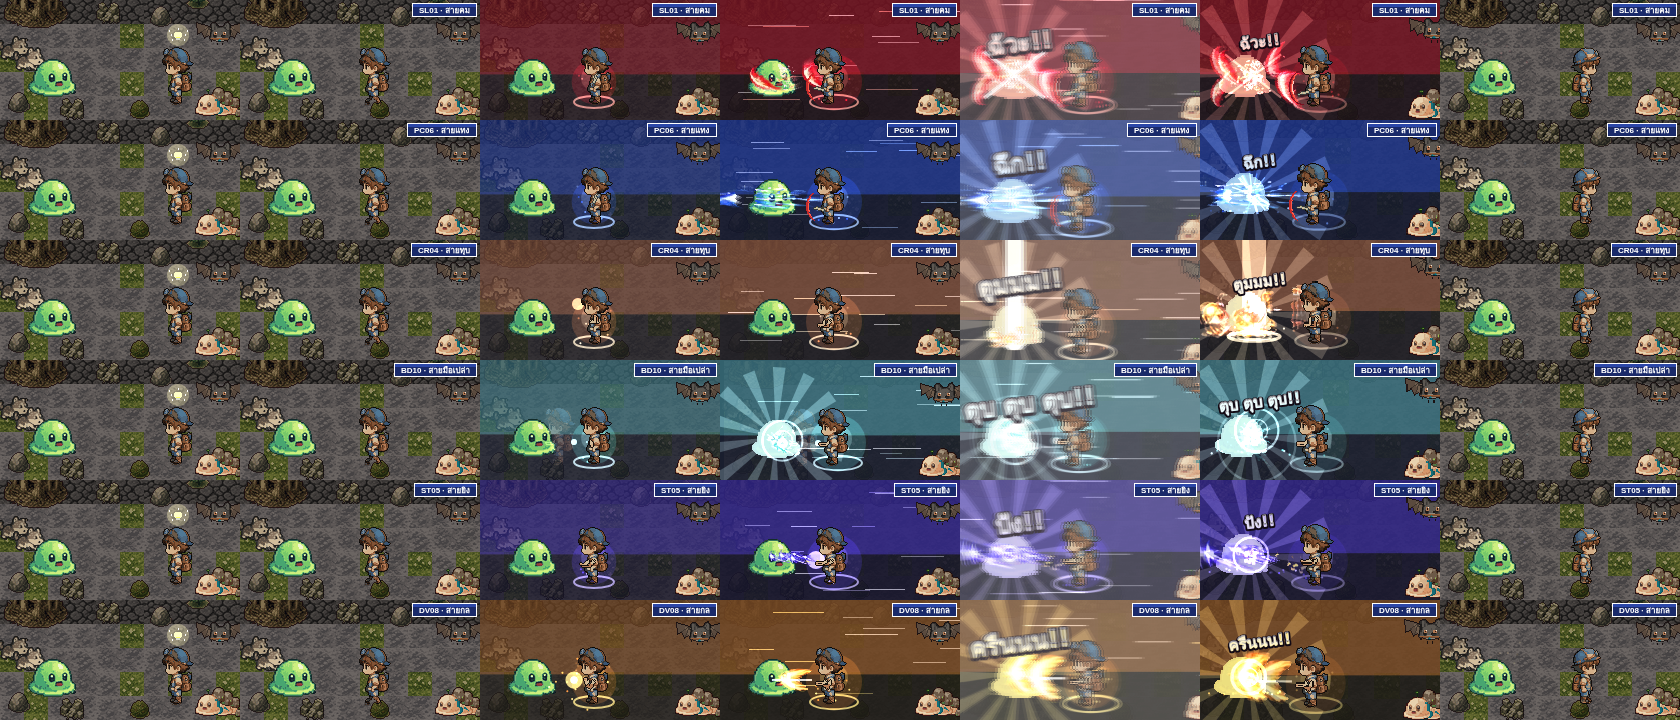
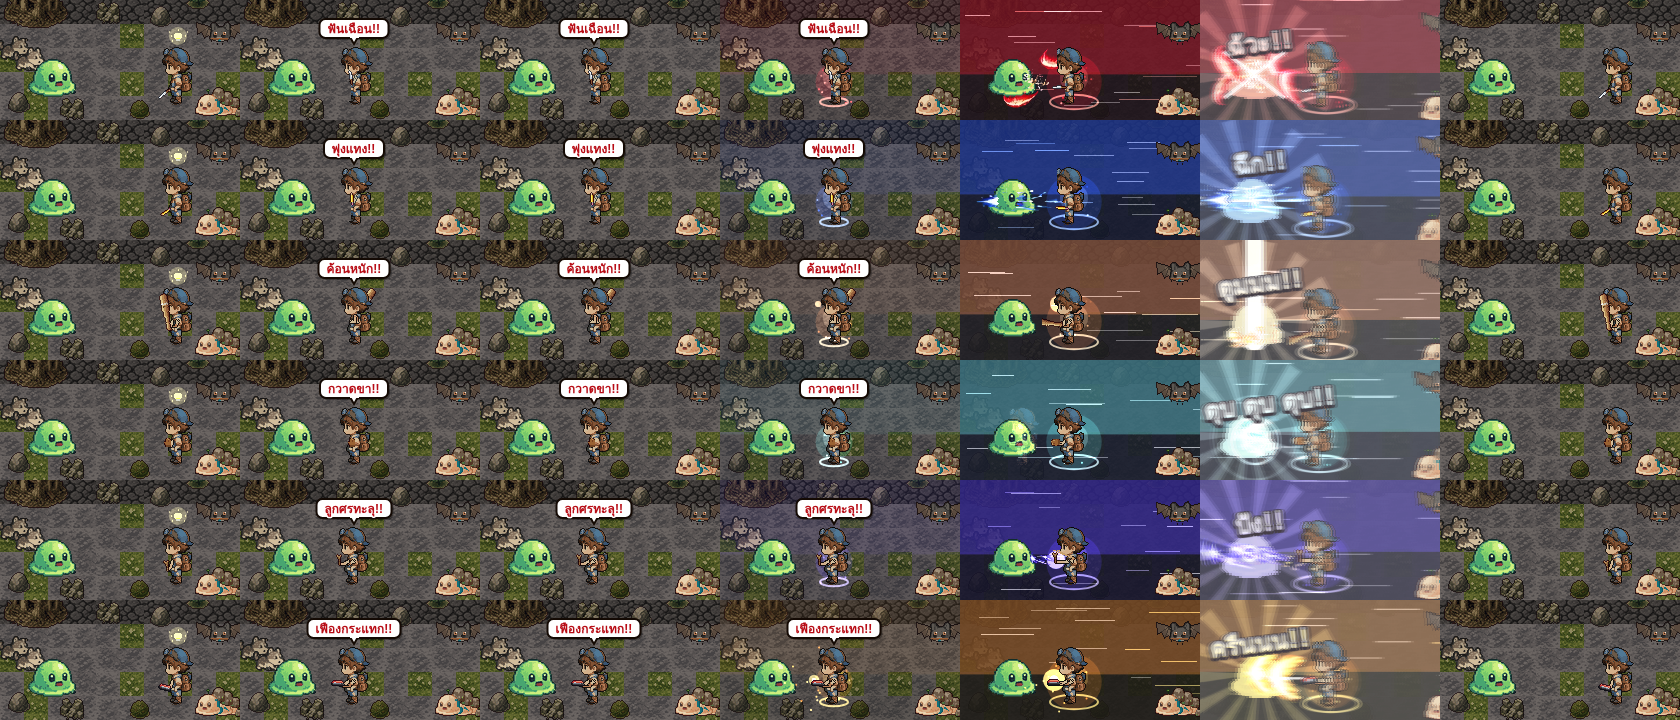
REBORNER: RS3 samples get school weapons, clearer name balloon, harder SFX and battle BGM
Drop speech voice and the top-right name box; balloon is bold 12px with heavy outline.
Rion holds the weapon of the skill's school. SFX rebuilt around sub-bass, driven
transients, reverb and a compressor. Adds an original SNES-style battle loop.

Claude-Session: https://claude.ai/code/session_01GQscemcyhAULQ41Vq3Zx3F

diff --git a/reborner/tools/web/anim_test.tpl.html b/reborner/tools/web/anim_test.tpl.html
@@ -177,7 +177,7 @@ footer code{font-family:ui-monospace,Menlo,monospace;font-size:11px}
 		<section class="box" id="paneSksheet" hidden>
 			<p class="muted wnote">ตัดจากชีตสกิลของ kwan ทีละช่อง (มีจริง 172 ช่อง แม้หัวชีตเขียน 173) · ตัวเอกในชีตถูกลบออก ใช้ Rion ตัวจริงของเกมแทน · หันซ้ายแบบจอสู้ ·
 				ยืน → ง้าง → ปล่อย → กระทบ → คืนท่า · มุมซ้ายบน = ช่องต้นฉบับ · ร่าง ยังไม่เข้าเกม · ชื่อท่ายังไม่ได้ใส่ (ในชีตเป็นภาพตัวหนังสือ)</p>
-			<p><button class="btn" id="btnSound" aria-pressed="false">🔇 เสียงปิด — กดเพื่อเปิดเสียงประกอบ (ตัวอย่าง VFX)</button></p>
+			<p class="seg"><button class="btn" id="btnSound" aria-pressed="false">🔇 เสียงประกอบ</button><button class="btn" id="btnMusic" aria-pressed="false">🎵 เพลงต่อสู้</button></p>
 			<div class="clips" id="skGroups"></div>
 		</section>
 
@@ -343,20 +343,24 @@ const vHash = str => { let h = 2166136261; for (const ch of str) h = Math.imul(h
 const vRng = seed => { let s = (seed >>> 0) || 1; return () => (s = (Math.imul(s, 1664525) + 1013904223) >>> 0) / 4294967296; };
 const lerp = (a, b, t) => a + (b - a) * Math.max(0, Math.min(1, t));
 // แนว RS3 (Romancing SaGa 3 · kwan 5 ต.ค. "ทำแนว RS3 แต่เพิ่มความอลังการ"): ฉากปูไทล์ 240x120 แบบโหมด SaGa · ทีมเรียงทแยงขวา · มอนซ้าย
-// เฟรม: หลอดไฟประกาย 0–5 · กล่องชื่อท่า 4– · วิ่งเข้า 6–11 · ตะโกนชื่อท่า 12–27 (บอลลูน + เสียงพูด) · ท่า (VFX เฟรม 0–29) 28–57 · วิ่งกลับ 58–63 · ยืน 64–69
+// เฟรม: หลอดไฟประกาย 0–5 · วิ่งเข้า 6–11 · ประกาศชื่อท่า 12–27 (บอลลูนชื่อท่า) · ท่า (VFX เฟรม 0–29) 28–57 · วิ่งกลับ 58–63 · ยืน 64–69
 const RS3 = { N: 70, RUN: 6, SHOUT: 12, ATK: 28, BACK: 58, IDLE: 64, HOME: [146, 42], FRONT_DX: 30,
 	TARGET: { x: 52, foot: 98, key: 'mon/M01' }, BACKFOE: { x: 22, foot: 72, key: 'mon/M15' },
 	PARTY: [{ key: 'mon/COMP-M06', x: 220, y: 60 }, { key: 'mon/COMP-M03', x: 218, y: 118 }] };
 function rs3Rion(it, f) {   // ตำแหน่งมุมซ้ายบน + ภาพของ Rion ที่เฟรม f
 	const front = RS3.TARGET.x + RS3.FRONT_DX, [hx, hy] = RS3.HOME;
-	if (f < RS3.RUN) return { x: hx, y: hy, key: 'rion/west' };
+	if (f < RS3.RUN) return { x: hx, y: hy, key: heldPose(it, 0) };
 	if (f < RS3.SHOUT) { const p = (f - RS3.RUN + 1) / (RS3.SHOUT - RS3.RUN); return { x: Math.round(lerp(hx, front, p)), y: hy, key: `rion/west_w${f % 4}` }; }
-	if (f < RS3.ATK) return { x: front, y: hy - ((f >> 2) % 2), key: 'rion/' + SKS.poses[it.family][1] };   // ตะโกน: ท่าง้าง ตัวกระตุกขึ้นลงทีละ 1px
-	if (f < RS3.BACK) return { x: front, y: hy, key: 'rion/' + SKS.poses[it.family][VFX.POSE[f - RS3.ATK]] };
+	if (f < RS3.ATK) return { x: front, y: hy - ((f >> 2) % 2), key: heldPose(it, 1) };   // ประกาศชื่อท่า: ท่าง้าง ตัวกระตุกขึ้นลงทีละ 1px
+	if (f < RS3.BACK) return { x: front, y: hy, key: heldPose(it, VFX.POSE[f - RS3.ATK]) };
 	if (f < RS3.IDLE) { const p = (f - RS3.BACK + 1) / (RS3.IDLE - RS3.BACK); return { x: Math.round(lerp(front, hx, p)), y: hy, key: `rion/east_w${f % 4}` }; }
-	return { x: hx, y: hy, key: 'rion/west' };
+	return { x: hx, y: hy, key: heldPose(it, 0) };
 }
-const VFX_POSE_KEYS = it => VFX.POSE.map(p => 'rion/' + SKS.poses[it.family][p]);
+// อาวุธที่ถือตรงกับสายของท่า (kwan 5 ต.ค.): ภาพ Rion ถืออาวุธร่าง weapons_held/<สาย>-<ระดับ>_<0–4> (ยืน · ง้าง · ฟาด · ตาม · คืน = ช่องเดียวกับ VFX.POSE)
+// ระดับอาวุธ = ตำแหน่งของท่าในสายของมัน (ต้นสาย = ระดับ 1 · ท้ายสาย = ระดับ 5) — เป็นการจับคู่เพื่อดูภาพ ไม่ใช่กฎเกม
+function heldWeapon(it) { const fam = SKS.items.filter(x => x.family === it.family), i = Math.max(0, fam.indexOf(it)); return `${it.family}-${Math.min(5, 1 + Math.floor(i * 5 / fam.length))}`; }
+function heldPose(it, p) { const k = `held/${heldWeapon(it)}_${p}`; return DATA.sprites[k] ? k : 'rion/' + SKS.poses[it.family][p]; }
+const VFX_POSE_KEYS = it => VFX.POSE.map(p => heldPose(it, p));
 // สกิลจากชีต 173 ท่า (tools/sprites/skill_sheet_cut.py) — timeline/poses/ตำแหน่งมาจาก index.json ชุดเดียวกับสคริปต์
 const SKS = DATA.skill_sheet, SK_FAM = { SL: 'SL ฟัน', PC: 'PC แทง', CR: 'CR ทุบ', BD: 'BD ร่างกาย', ST: 'ST ยิง', DV: 'DV สายกล' };
 for (const it of ((SKS || {}).items || [])) {
@@ -514,7 +518,7 @@ function vfxScene(c, L) {   // L = ผังฉาก: size · hand · rion (ม
 
 function vfxView(c) {   // แบบเวทีทดสอบ: Rion ขวา เป้า M01 ซ้าย ช่องต้นฉบับมุมซ้ายบน
 	const f = S.frame;
-	vfxScene(c, { f, size: SKS.stage, hand: SKS.hand, rion: SKS.rion_at, pose: 'rion/' + SKS.poses[c.skill.family][VFX.POSE[f]], target: VFX.TARGET, bg: drawBg, cell: true });
+	vfxScene(c, { f, size: SKS.stage, hand: SKS.hand, rion: SKS.rion_at, pose: heldPose(c.skill, VFX.POSE[f]), target: VFX.TARGET, bg: drawBg, cell: true });
 }
 function rs3Bulb(x, y, f) {   // หลอดไฟประกาย (พิกเซล) เหนือหัว — แบบเดียวกับ bulb() ของโหมด SaGa
 	ctx.save(); ctx.fillStyle = '#fff6a0'; ctx.fillRect(x - 3, y - 8, 6, 6); ctx.fillRect(x - 4, y - 7, 8, 4); ctx.fillStyle = '#ffd040'; ctx.fillRect(x - 2, y - 3, 4, 1);
@@ -522,29 +526,17 @@ function rs3Bulb(x, y, f) {   // หลอดไฟประกาย (พิก
 	ctx.fillStyle = '#fff6a0'; for (const [dx, dy] of [[-7, -6], [7, -6], [0, -12], [-6, -1], [6, -1], [-9, -10], [9, -10]]) ctx.fillRect(x + dx, y + dy, 1, 2);
 	vfxDot(x, y - 5, 9 + (f % 3), '#fff6a0', 0.25); ctx.restore();
 }
-function rs3NameBox(text, alpha, W0) {   // กล่องชื่อท่ามุมขวาบน (กรอบน้ำเงินขอบขาวแบบ SNES)
-	ctx.save(); ctx.globalAlpha = alpha; ctx.font = '700 8px Sarabun, sans-serif'; const w = Math.ceil(ctx.measureText(text).width) + 12, x = W0 - w - 4, y = 4;
-	ctx.fillStyle = '#ffffff'; ctx.fillRect(x - 1, y - 1, w + 2, 14); ctx.fillStyle = '#1a2a6a'; ctx.fillRect(x, y, w, 12);
-	ctx.fillStyle = '#2c47a8'; ctx.fillRect(x, y, w, 3); ctx.fillStyle = '#ffffff'; ctx.textBaseline = 'middle'; ctx.fillText(text, x + 6, y + 6.5); ctx.restore();
-}
-function rs3Bubble(text, x, y, d, alpha) {   // บอลลูนคำพูด (แบบ bubble() ของโหมด SaGa) เด้งตอนเริ่ม
-	if (alpha <= 0) return; ctx.save(); ctx.globalAlpha = Math.min(1, alpha); ctx.font = '900 9px Sarabun, sans-serif';
-	const sc = d < 2 ? 1.35 - d * 0.17 : 1, w = Math.ceil(ctx.measureText(text).width) + 12, bx = Math.max(2, Math.min(240 - w * sc - 2, x - w * sc / 2)), by = y - 18;
+function rs3Bubble(text, x, y, d, alpha) {   // บอลลูนชื่อท่า: ตัวหนา 12px ขอบหนา เด้งตอนเริ่ม · ไม่ล้นจอ
+	if (alpha <= 0) return; ctx.save(); ctx.globalAlpha = Math.min(1, alpha); ctx.font = '900 12px Sarabun, "Noto Sans Thai", sans-serif';
+	const sc = d < 2 ? 1.3 - d * 0.15 : 1, w = Math.ceil(ctx.measureText(text).width) + 16, h = 19;
+	const bx = Math.max(2, Math.min(240 - w * sc - 2, x - w * sc / 2)), by = Math.max(2, y - h - 8), tail = Math.max(8, Math.min(w - 8, (x - bx) / sc));
 	ctx.translate(bx, by); ctx.scale(sc, sc);
-	ctx.fillStyle = '#fffaf0'; ctx.strokeStyle = '#2a1a0a'; ctx.lineWidth = 1.5; ctx.beginPath(); ctx.roundRect ? ctx.roundRect(0, 0, w, 14, 5) : ctx.rect(0, 0, w, 14); ctx.fill(); ctx.stroke();
-	ctx.beginPath(); ctx.moveTo(w / 2 - 3, 14); ctx.lineTo(w / 2 + 2, 19); ctx.lineTo(w / 2 + 3, 14); ctx.fill();
-	ctx.fillStyle = '#c0181e'; ctx.textBaseline = 'middle'; ctx.fillText(text, 6, 7.5); ctx.restore();
-}
-// เสียงตะโกนชื่อท่า: ใช้เสียงพูดภาษาไทยที่มีในเครื่องของคนดู (Web Speech) — ไม่มีไฟล์เสียงพากย์
-// เลือกเสียงผู้ชายไทยก่อน (Niwat/Pattara) แล้วดันเสียงสูงขึ้นให้เป็นเด็กชายวัยรุ่น · มีแค่เสียงผู้หญิง = กดเสียงต่ำลงเล็กน้อย · ไม่มีเสียงไทย = บอลลูนอย่างเดียว
-const VOICE_PITCH = { male: 1.5, other: 0.92 }, VOICE_RATE = 1.2;
-function thVoices() { return 'speechSynthesis' in window ? speechSynthesis.getVoices().filter(v => /^th/i.test(v.lang)) : []; }
-function rionVoice() { const vs = thVoices(), male = vs.find(v => /niwat|pattara|male|ชาย/i.test(v.name)); return { v: male || vs[0], male: !!male, n: vs.length }; }
-function rionShout(text) {
-	const { v, male } = rionVoice(); if (!v) return false;
-	const u = new SpeechSynthesisUtterance(text + '!'); u.lang = 'th-TH'; try { u.voice = v; } catch (e) {}   /* เลือกเสียงไม่ได้ = ใช้เสียงไทยค่าเริ่มของเครื่อง */
-	u.pitch = male ? VOICE_PITCH.male : VOICE_PITCH.other; u.rate = VOICE_RATE; u.volume = 1;
-	speechSynthesis.cancel(); speechSynthesis.speak(u); window.__shouts = (window.__shouts || 0) + 1; return true;
+	ctx.fillStyle = 'rgba(0,0,0,.35)'; ctx.beginPath(); ctx.roundRect ? ctx.roundRect(2, 2, w, h, 6) : ctx.rect(2, 2, w, h); ctx.fill();   // เงา
+	ctx.fillStyle = '#ffffff'; ctx.strokeStyle = '#140a04'; ctx.lineWidth = 2; ctx.beginPath(); ctx.roundRect ? ctx.roundRect(0, 0, w, h, 6) : ctx.rect(0, 0, w, h); ctx.fill(); ctx.stroke();
+	ctx.beginPath(); ctx.moveTo(tail - 4, h - 1); ctx.lineTo(tail, h + 6); ctx.lineTo(tail + 4, h - 1); ctx.fill(); ctx.stroke();
+	ctx.fillRect(tail - 4, h - 3, 9, 3);   // ลบเส้นขอบตรงโคนหาง
+	ctx.textBaseline = 'middle'; ctx.lineJoin = 'round'; ctx.lineWidth = 3; ctx.strokeStyle = '#ffffff'; ctx.strokeText(text, 8, h / 2 + 1);
+	ctx.fillStyle = '#b80d16'; ctx.fillText(text, 8, h / 2 + 1); ctx.restore();
 }
 function rs3View(c) {
 	const it = c.skill, f = S.frame, r = rs3Rion(it, f), col = it.colors || ['#ffffff'], lf = f - RS3.ATK;
@@ -556,49 +548,126 @@ function rs3View(c) {
 		party: () => { for (const m of RS3.PARTY) { const im = IMG[m.key]; if (im) { ctx.save(); ctx.translate(m.x + (im.width >> 1), m.y - im.height); ctx.scale(-1, 1); ctx.drawImage(im, 0, 0); ctx.restore(); } } },
 		over: () => {
 			if (f < RS3.RUN + 1) rs3Bulb(r.x + 32, r.y - 2 + (f % 2), f);
-			if (f >= RS3.SHOUT && f < RS3.ATK + 6) rs3Bubble((it.name_th || it.code) + '!!', r.x + 30, r.y + 2, f - RS3.SHOUT, f < RS3.ATK + 3 ? 1 : 1 - (f - RS3.ATK - 2) / 4);
-			if (f >= 4 && f < RS3.IDLE + 2) rs3NameBox((it.name_th || it.code) + ' · สาย' + it.school, f < 6 ? (f - 3) / 3 : f > RS3.IDLE - 1 ? Math.max(0, 1 - (f - RS3.IDLE + 1) / 3) : 1, 240);
+			if (f >= RS3.SHOUT && f < RS3.ATK + 8) rs3Bubble((it.name_th || it.code) + '!!', r.x + 32, r.y + 4, f - RS3.SHOUT, f < RS3.ATK + 4 ? 1 : 1 - (f - RS3.ATK - 3) / 5);
 		} });
 }
 function rs3Sound(c, f) {
 	if (!S.sound || !AU) return;
 	if (f === 1) AU_SFX.glim();
-	if (f === 4) AU_SFX.blip();
-	if (f === RS3.SHOUT) rionShout(c.skill.name_th || c.skill.code);
-	if ((f >= RS3.RUN && f < RS3.ATK) || (f >= RS3.BACK && f < RS3.IDLE)) { if (f % 2 === 0) AU_SFX.step(); }
+	if (f === RS3.SHOUT) AU_SFX.call();
+	if ((f >= RS3.RUN && f < RS3.SHOUT) || (f >= RS3.BACK && f < RS3.IDLE)) { if (f % 2 === 0) AU_SFX.step(); }
 	if (f >= RS3.ATK && f < RS3.BACK) vfxSound(c, f - RS3.ATK);
 }
-// ── เสียงประกอบ (Web Audio สังเคราะห์ในหน้า · ไม่มีไฟล์เสียง) ── เปิดด้วยปุ่ม "เสียง" (เบราว์เซอร์ให้เล่นได้หลังกดเท่านั้น)
+// ── เสียง (Web Audio สังเคราะห์ในหน้า · ไม่มีไฟล์เสียง) ── เบราว์เซอร์ให้เล่นได้หลังกดปุ่มเท่านั้น
+// สาย: เสียงเอฟเฟกต์ → sfx (+ ส่งเข้าห้องก้อง) · เพลง → music · ทั้งหมด → คอมเพรสเซอร์ → ลำโพง
 let AU = null;
-function auInit() { if (!AU) { try { const C = window.AudioContext || window.webkitAudioContext; const ac = new C(); const out = ac.createGain(); out.gain.value = 0.5; out.connect(ac.destination);
-	const nb = ac.createBuffer(1, ac.sampleRate, ac.sampleRate), d = nb.getChannelData(0); let s = 12345; for (let i = 0; i < d.length; i++) { s = (Math.imul(s, 1664525) + 1013904223) >>> 0; d[i] = s / 2147483648 - 1; }
-	AU = { ac, out, nb }; } catch (e) { AU = null; } } if (AU && AU.ac.state === 'suspended') AU.ac.resume(); return AU; }
+function auInit() {
+	if (!AU) { try {
+		const C = window.AudioContext || window.webkitAudioContext, ac = new C();
+		const comp = ac.createDynamicsCompressor(); comp.threshold.value = -14; comp.ratio.value = 6; comp.attack.value = 0.003; comp.release.value = 0.2;
+		const master = ac.createGain(); master.gain.value = 0.85; comp.connect(master); master.connect(ac.destination);
+		const sfx = ac.createGain(); sfx.gain.value = 1; sfx.connect(comp);
+		const music = ac.createGain(); music.gain.value = 0.2; music.connect(comp);
+		const nb = ac.createBuffer(1, ac.sampleRate, ac.sampleRate), d = nb.getChannelData(0); let s = 12345; for (let i = 0; i < d.length; i++) { s = (Math.imul(s, 1664525) + 1013904223) >>> 0; d[i] = s / 2147483648 - 1; }
+		const ir = ac.createBuffer(2, ac.sampleRate * 1.6, ac.sampleRate);   // ห้องก้อง: เสียงซ่าที่จางลง 1.6 วิ
+		for (let ch = 0; ch < 2; ch++) { const x = ir.getChannelData(ch); for (let i = 0; i < x.length; i++) { s = (Math.imul(s, 1664525) + 1013904223) >>> 0; x[i] = (s / 2147483648 - 1) * Math.pow(1 - i / x.length, 3); } }
+		const verb = ac.createConvolver(); verb.buffer = ir; const send = ac.createGain(); send.gain.value = 0.32; send.connect(verb); verb.connect(comp);
+		const drive = ac.createWaveShaper(), n = 1024, curve = new Float32Array(n); for (let i = 0; i < n; i++) { const x = i * 2 / n - 1; curve[i] = Math.tanh(x * 3.2); } drive.curve = curve; drive.connect(sfx); drive.connect(send);
+		AU = { ac, out: sfx, send, drive, music, nb };
+	} catch (e) { AU = null; } }
+	if (AU && AU.ac.state === 'suspended') AU.ac.resume(); return AU;
+}
 function auEnv(g, t0, a, peak, dur) { g.gain.setValueAtTime(0.0001, t0); g.gain.exponentialRampToValueAtTime(peak, t0 + a); g.gain.exponentialRampToValueAtTime(0.0001, t0 + dur); }
-function auNoise(dur, type, f0, f1, peak, q = 1, delay = 0) { const { ac, out, nb } = AU, t0 = ac.currentTime + delay, src = ac.createBufferSource(), fl = ac.createBiquadFilter(), g = ac.createGain();
-	src.buffer = nb; fl.type = type; fl.Q.value = q; fl.frequency.setValueAtTime(f0, t0); fl.frequency.exponentialRampToValueAtTime(Math.max(20, f1), t0 + dur);
-	auEnv(g, t0, 0.01, peak, dur); src.connect(fl); fl.connect(g); g.connect(out); src.start(t0); src.stop(t0 + dur + 0.05); }
-function auTone(dur, wave, f0, f1, peak, delay = 0, attack = 0.005) { const { ac, out } = AU, t0 = ac.currentTime + delay, o = ac.createOscillator(), g = ac.createGain();
-	o.type = wave; o.frequency.setValueAtTime(f0, t0); o.frequency.exponentialRampToValueAtTime(Math.max(20, f1), t0 + dur); auEnv(g, t0, attack, peak, dur); o.connect(g); g.connect(out); o.start(t0); o.stop(t0 + dur + 0.05); }
+function auDest(g, o) { const { out, send, drive } = AU; if (o.drive) g.connect(drive); else { g.connect(o.dest || out); if (o.verb !== false && !o.dest) g.connect(send); } }
+function auNoise(dur, type, f0, f1, peak, q = 1, delay = 0, o = {}) { const { ac, nb } = AU, t0 = (o.t ?? ac.currentTime) + delay, src = ac.createBufferSource(), fl = ac.createBiquadFilter(), g = ac.createGain();
+	src.buffer = nb; src.playbackRate.value = o.rate || 1; fl.type = type; fl.Q.value = q; fl.frequency.setValueAtTime(f0, t0); fl.frequency.exponentialRampToValueAtTime(Math.max(20, f1), t0 + dur);
+	auEnv(g, t0, o.attack || 0.004, peak, dur); src.connect(fl); fl.connect(g); auDest(g, o); src.start(t0, (o.off || 0) % 0.9); src.stop(t0 + dur + 0.05); }
+function auTone(dur, wave, f0, f1, peak, delay = 0, attack = 0.004, o = {}) { const { ac } = AU, t0 = (o.t ?? ac.currentTime) + delay, os = ac.createOscillator(), g = ac.createGain();
+	os.type = wave; os.frequency.setValueAtTime(f0, t0); os.frequency.exponentialRampToValueAtTime(Math.max(20, f1), t0 + dur);
+	if (o.detune) os.detune.value = o.detune;
+	if (o.fm) { const m = ac.createOscillator(), mg = ac.createGain(); m.frequency.value = o.fm; mg.gain.value = o.fmDepth || 200; m.connect(mg); mg.connect(os.frequency); m.start(t0); m.stop(t0 + dur + 0.05); }
+	let node = os; if (o.lp) { const fl = ac.createBiquadFilter(); fl.type = 'lowpass'; fl.frequency.value = o.lp; fl.Q.value = o.q || 1; os.connect(fl); node = fl; }
+	auEnv(g, t0, attack, peak, dur); node.connect(g); auDest(g, o); os.start(t0); os.stop(t0 + dur + 0.05); }
+// เสียงสกิล — หนักและดุ: ซับเบส + หัวกระแทกแตกพร่า (drive) + ห้องก้อง · ไม่มีเสียงกริ๊ง/ระฆังใส
 const AU_SFX = {
-	charge: fam => { auTone(0.34, 'sine', 180, fam === 'DV' ? 900 : 520, 0.12, 0, 0.2); auTone(0.34, 'triangle', 360, fam === 'DV' ? 1800 : 1040, 0.05, 0, 0.2); },
-	release: { SL: () => auNoise(0.22, 'bandpass', 600, 4200, 0.5, 2.5), PC: () => { auNoise(0.12, 'highpass', 2500, 6000, 0.35); auTone(0.14, 'sawtooth', 1600, 400, 0.12); },
-		ST: () => [0, 0.09, 0.18].forEach(d => { auTone(0.1, 'square', 1100, 180, 0.14, d); auNoise(0.06, 'highpass', 3000, 3000, 0.25, 1, d); }),
-		CR: () => auNoise(0.3, 'bandpass', 300, 1400, 0.45, 1.5), BD: () => auNoise(0.14, 'bandpass', 900, 3000, 0.35, 2), DV: () => { auTone(0.4, 'sawtooth', 110, 150, 0.16); auTone(0.4, 'square', 220, 300, 0.06); auNoise(0.4, 'bandpass', 1800, 2400, 0.12, 3); } },
-	hit: (fam, big) => { auTone(big ? 0.7 : 0.4, 'sine', big ? 120 : 160, 38, big ? 0.9 : 0.6); auNoise(big ? 0.6 : 0.3, 'lowpass', 2400, 120, big ? 0.8 : 0.55);
-		auNoise(0.08, 'highpass', 4000, 4000, 0.4); if (fam === 'SL' || fam === 'PC') auTone(0.5, 'triangle', 2600, 1800, 0.07, 0.03); },
-	glim: () => [0, 0.07, 0.14, 0.21, 0.3].forEach((d, i) => auTone(0.35, 'triangle', [880, 1109, 1319, 1760, 2217][i], [880, 1109, 1319, 1760, 2217][i], 0.09, d)),   // หลอดไฟประกาย: อาร์เปจโจ้ไต่ขึ้น
-	blip: () => { auTone(0.06, 'square', 1200, 1200, 0.05); auTone(0.06, 'square', 1600, 1600, 0.05, 0.06); },   // กล่องชื่อท่าเด้งขึ้น
-	step: () => auNoise(0.05, 'bandpass', 900, 500, 0.12, 2),
-	punch: () => { auTone(0.16, 'sine', 140, 50, 0.7); auNoise(0.09, 'bandpass', 1400, 400, 0.5, 1.2); },
-	tail: fam => { if (fam === 'CR' || fam === 'DV') auNoise(1.0, 'lowpass', 500, 60, 0.35); else [0, 0.06, 0.13, 0.21].forEach((d, i) => auTone(0.25, 'triangle', 1800 + i * 420, 2600 + i * 300, 0.05, d)); },
+	charge: fam => { auNoise(0.62, 'bandpass', 180, fam === 'DV' ? 4200 : 2600, 0.5, 3, 0, { attack: 0.5 });   // เสียงพลังพุ่งขึ้น
+		auTone(0.62, 'sawtooth', 48, 96, 0.22, 0, 0.45, { lp: 420, q: 4 }); if (fam === 'DV') auTone(0.62, 'sawtooth', 70, 140, 0.12, 0, 0.4, { fm: 31, fmDepth: 60, lp: 1200 }); },
+	release: {
+		SL: () => { auNoise(0.28, 'bandpass', 500, 3800, 1.0, 1.8); auNoise(0.22, 'highpass', 3200, 9000, 0.6, 9, 0.03); auTone(0.18, 'sawtooth', 2200, 700, 0.18, 0.02, 0.004, { lp: 5000 }); },   // ลมฟัน + เสียงโลหะเฉือน
+		PC: () => { auNoise(0.18, 'bandpass', 900, 5200, 0.9, 2.5); auTone(0.16, 'sine', 240, 70, 0.7, 0, 0.003, { drive: true }); },
+		ST: () => [0, 0.09, 0.18].forEach(d => { auNoise(0.16, 'lowpass', 7000, 600, 1.0, 0.7, d, { drive: true }); auTone(0.18, 'sine', 160, 40, 0.9, d, 0.002, { drive: true }); auNoise(0.03, 'highpass', 5000, 5000, 0.6, 1, d); }),   // ปืน 3 นัด
+		CR: () => { auNoise(0.42, 'bandpass', 120, 900, 1.1, 1.4); auTone(0.4, 'sawtooth', 60, 40, 0.3, 0, 0.1, { lp: 300 }); },   // ลมหนักของค้อน
+		BD: () => { auNoise(0.12, 'bandpass', 700, 2600, 0.9, 2); auNoise(0.12, 'bandpass', 700, 2600, 0.8, 2, 0.08); },
+		DV: () => { auTone(0.55, 'sawtooth', 82, 98, 0.45, 0, 0.01, { fm: 47, fmDepth: 140, lp: 2600, q: 3 }); auNoise(0.55, 'highpass', 2500, 6000, 0.35, 4); }   // ลำแสงไฟฟ้า
+	},
+	hit: (fam, big) => {
+		auTone(big ? 0.95 : 0.6, 'sine', big ? 95 : 120, 28, 1.0, 0, 0.002, { drive: true });   // ซับเบสตูม
+		auNoise(big ? 0.9 : 0.5, 'lowpass', 5200, 160, 1.0, 0.8, 0, { drive: true });   // ก้อนแตก
+		auNoise(0.05, 'highpass', 3500, 3500, 0.9, 1);   // หัวคลิก
+		if (big) auNoise(1.4, 'lowpass', 600, 50, 0.6, 0.7, 0.05);   // ครืนยาว
+		if (fam === 'SL' || fam === 'PC') auNoise(0.35, 'bandpass', 4200, 2600, 0.5, 14, 0.01);   // โลหะสะท้าน (กรองแคบ ไม่ใช่เสียงระฆัง)
+	},
+	punch: () => { auTone(0.2, 'sine', 130, 42, 1.0, 0, 0.002, { drive: true }); auNoise(0.12, 'bandpass', 900, 300, 0.9, 1.2, 0, { drive: true }); auNoise(0.03, 'highpass', 3000, 3000, 0.5); },
+	tail: fam => { auNoise(fam === 'CR' || fam === 'DV' ? 1.4 : 0.8, 'lowpass', 700, 50, 0.5, 0.7);   // ฝุ่น/เศษตก: เสียงแตกสั้น ๆ กระจาย
+		for (let i = 0; i < 5; i++) auNoise(0.05, 'bandpass', 1500 + i * 400, 900, 0.25, 3, 0.05 + i * 0.07); },
+	glim: () => { auNoise(0.18, 'highpass', 5000, 9000, 0.7, 6); auTone(0.12, 'square', 1046, 2093, 0.12, 0, 0.002, { lp: 4000 }); },   // หลอดไฟ: วาบแหลมสั้น
+	call: () => { auTone(0.22, 'sawtooth', 220, 330, 0.3, 0, 0.01, { lp: 1600, q: 5 }); auNoise(0.25, 'bandpass', 600, 1800, 0.4, 2); },   // จังหวะประกาศชื่อท่า: เสียงกระแทกเปิดท่า
+	step: () => auNoise(0.05, 'bandpass', 900, 500, 0.22, 2, 0, { verb: false }),
 };
 function vfxSound(c, f) {   // เรียกเมื่อเฟรมเดินเอง (ไม่เล่นตอนกดทีละเฟรม)
-	if (!S.sound || !AU) return; const fam = c.skill.family, t = vTime(f);
+	if (!S.sound || !AU) return; const fam = c.skill.family;
 	if (f === VFX.CHG) AU_SFX.charge(fam);
 	if (f === VFX.REL) AU_SFX.release[fam]();
 	if (fam === 'BD' && (f === VFX.HIT - 4 || f === VFX.HIT - 2)) AU_SFX.punch();
 	if (f === VFX.HIT) AU_SFX.hit(fam, fam === 'CR' || fam === 'DV');
 	if (f === VFX.HIT + VFX.STOP + 2) AU_SFX.tail(fam);
+}
+
+// ── เพลงต่อสู้แนว SNES JRPG (แต่งใหม่สำหรับหน้านี้ · ไม่ใช่เพลงของเกมอื่น) ── D minor · 152 BPM · 8 ห้องวน
+// ลีด (สแควร์ 2 ตัวเหลื่อมเสียง + สั่น + เสียงสะท้อน) · เบส (ซอว์กรองต่ำ ตีโน้ตเต็ม/คู่แปด) · อาร์เปจจิโอ 16 ส่วน · กลอง (คิก สแนร์ ไฮแฮต)
+const BGM = { bpm: 152, chords: [[50, 'm'], [46, 'M'], [48, 'M'], [45, 'm'], [50, 'm'], [46, 'M'], [43, 'm'], [45, 'M']],
+	lead: [[[69, 2], [74, 2], [77, 2], [76, 2], [74, 4], [69, 4]], [[77, 2], [79, 2], [81, 4], [79, 2], [77, 2], [74, 4]],
+		[[76, 2], [77, 2], [79, 4], [72, 2], [76, 2], [79, 4]], [[81, 6], [79, 2], [76, 4], [73, 4]],
+		[[74, 2], [77, 2], [81, 2], [86, 2], [84, 2], [81, 2], [77, 4]], [[82, 4], [81, 2], [79, 2], [77, 4], [74, 4]],
+		[[79, 2], [82, 2], [86, 4], [84, 2], [82, 2], [79, 4]], [[81, 4], [76, 2], [79, 2], [85, 4], [81, 4]]],
+	kick: [0, 6, 8, 11], snare: [4, 12] };
+const mhz = n => 440 * Math.pow(2, (n - 69) / 12);
+let bgmTimer = null, bgmNext = 0, bgmStep = 0, bgmEcho = null;
+function bgmNote(t, n, len, kind) {
+	const { ac, music } = AU, o = { dest: music, t };
+	if (kind === 'lead') {
+		if (!bgmEcho) { const d = ac.createDelay(1); d.delayTime.value = 60 / BGM.bpm * 0.75; const fb = ac.createGain(); fb.gain.value = 0.32; const lp = ac.createBiquadFilter(); lp.frequency.value = 2400;
+			d.connect(lp); lp.connect(fb); fb.connect(d); lp.connect(music); bgmEcho = d; }
+		for (const dt of [-7, 7]) { const os = ac.createOscillator(), g = ac.createGain(), fl = ac.createBiquadFilter(), lfo = ac.createOscillator(), lg = ac.createGain();
+			os.type = 'square'; os.frequency.value = mhz(n); os.detune.value = dt; fl.type = 'lowpass'; fl.frequency.value = 3200;
+			lfo.frequency.value = 5.6; lg.gain.value = 0; lg.gain.setValueAtTime(0, t); lg.gain.linearRampToValueAtTime(9, t + Math.min(len, 0.25) + 0.05); lfo.connect(lg); lg.connect(os.detune);   // สั่นเสียงหลังโน้ตยาวเริ่ม
+			g.gain.setValueAtTime(0.0001, t); g.gain.exponentialRampToValueAtTime(0.42, t + 0.01); g.gain.exponentialRampToValueAtTime(0.25, t + 0.08); g.gain.setValueAtTime(0.25, t + len * 0.85); g.gain.exponentialRampToValueAtTime(0.0001, t + len);
+			os.connect(fl); fl.connect(g); g.connect(music); g.connect(bgmEcho); os.start(t); lfo.start(t); os.stop(t + len + 0.05); lfo.stop(t + len + 0.05); }
+	} else if (kind === 'bass') auTone(len, 'sawtooth', mhz(n), mhz(n), 0.55, 0, 0.004, { ...o, lp: 700, q: 7 });
+	else if (kind === 'arp') auTone(len, 'square', mhz(n), mhz(n), 0.09, 0, 0.003, { ...o, lp: 2600 });
+	else if (kind === 'kick') auTone(0.14, 'sine', 160, 42, 0.9, 0, 0.002, o);
+	else if (kind === 'snare') { auNoise(0.13, 'bandpass', 1900, 1200, 0.6, 0.9, 0, o); auTone(0.08, 'triangle', 220, 160, 0.3, 0, 0.002, o); }
+	else if (kind === 'hat') auNoise(0.035, 'highpass', 7500, 7500, 0.22, 1, 0, o);
+}
+function bgmTick() {
+	if (!AU) return; const ac = AU.ac, st = 60 / BGM.bpm / 4;
+	if (bgmNext < ac.currentTime) bgmNext = ac.currentTime + 0.05;
+	while (bgmNext < ac.currentTime + 0.12) {
+		const bar = (bgmStep >> 4) % 8, s16 = bgmStep % 16, [root, q] = BGM.chords[bar], t = bgmNext;
+		const tri = [0, q === 'm' ? 3 : 4, 7, 12];
+		let pos = 0; for (const [n, l] of BGM.lead[bar]) { if (pos === s16) bgmNote(t, n, l * st, 'lead'); pos += l; }
+		if (s16 % 2 === 0) bgmNote(t, root - 12 + (s16 % 4 === 2 ? 12 : 0), st * 1.8, 'bass');
+		bgmNote(t, root + 12 + tri[s16 % 4], st * 0.9, 'arp');
+		if (BGM.kick.includes(s16)) bgmNote(t, 0, 0, 'kick');
+		if (BGM.snare.includes(s16) || (bar === 7 && s16 >= 12)) bgmNote(t, 0, 0, 'snare');   // ห้องสุดท้ายรัวสแนร์ส่งกลับต้น
+		if (s16 % 2 === 0) bgmNote(t, 0, 0, 'hat');
+		bgmNext += st; bgmStep++;
+	}
+}
+function bgmSet(on) {
+	if (on) { if (!auInit()) return false; if (!bgmTimer) { bgmStep = 0; bgmNext = 0; bgmTick(); bgmTimer = setInterval(bgmTick, 25); } }
+	else if (bgmTimer) { clearInterval(bgmTimer); bgmTimer = null; }
+	return true;
 }
 function sheetSkillView(c) {
 	if (c.rs3) return rs3View(c);
@@ -1752,9 +1821,8 @@ function boot() {
 	$('segStyle').onclick = e => { const v = e.target.dataset.v; if (!v) return; S.style = v; S.cine = v === 'cine'; S.saga = v === 'saga'; setHome(); press($('segStyle'), v); try { localStorage.setItem('at_style', v); } catch (er) {} };
 	try { const v = localStorage.getItem('at_style'); if (v) { S.style = v; S.cine = v === 'cine'; S.saga = v === 'saga'; setHome(); press($('segStyle'), v); } } catch (er) {}
 	$('btnSound').onclick = () => { S.sound = !S.sound; if (S.sound) auInit(); const b = $('btnSound'); b.setAttribute('aria-pressed', String(S.sound));
-		const vz = () => { const r = rionVoice(); return r.v ? ` · เสียงพูด: ${r.v.name}${r.male ? '' : ' (ไม่มีเสียงผู้ชายไทยในเครื่องนี้)'}` : ' · เครื่องนี้ไม่มีเสียงพูดภาษาไทย (ขึ้นบอลลูนอย่างเดียว)'; };
-		b.textContent = S.sound ? (AU ? '🔊 เสียงเปิด — เล่นตอนท่าเดินเอง' + vz() : 'เบราว์เซอร์นี้เล่นเสียงไม่ได้') : '🔇 เสียงปิด — กดเพื่อเปิดเสียงประกอบ (ตัวอย่าง VFX)';
-		if (S.sound && 'speechSynthesis' in window) speechSynthesis.onvoiceschanged = () => { if (S.sound) b.textContent = '🔊 เสียงเปิด — เล่นตอนท่าเดินเอง' + vz(); }; };
+		b.textContent = S.sound ? (AU ? '🔊 เสียงประกอบ' : 'เบราว์เซอร์นี้เล่นเสียงไม่ได้') : '🔇 เสียงประกอบ'; };
+	$('btnMusic').onclick = () => { S.music = !S.music; const ok = bgmSet(S.music), b = $('btnMusic'); b.setAttribute('aria-pressed', String(S.music && ok)); b.textContent = !ok ? 'เบราว์เซอร์นี้เล่นเสียงไม่ได้' : S.music ? '🎵 เพลงต่อสู้ (กำลังเล่น)' : '🎵 เพลงต่อสู้'; };
 	$('btnGlim').onclick = () => { S.glim = !S.glim; $('btnGlim').setAttribute('aria-pressed', String(S.glim)); };
 	$('btnPlay').onclick = () => { S.playing = !S.playing; updPlay(); };
 	const step = d => { if (!isClip()) return; S.playing = false; updPlay(); const n = CLIPS[S.clip].frames.length; S.frame = (S.frame + d + n) % n; syncFrame(); };

diff --git a/reborner/CLAUDE.md b/reborner/CLAUDE.md
@@ -378,6 +378,13 @@ Sim ปิดตัวเองเมื่อรัน headless · บรรท
       มีแค่เสียงผู้หญิง = pitch 0.92 · ไม่มีเสียงไทย = บอลลูนอย่างเดียว · ปุ่มเสียงบอกว่าเครื่องนั้นใช้เสียงอะไร · บอลลูนคำพูด "ชื่อท่า!!" แดงบนขาวเด้งเหนือหัว
     ตรวจ: Chromium ในเครื่องคลาวด์ไม่มีเสียงไทยเลย → จำลองเสียง Niwat แล้วดูข้อความที่ส่งให้เครื่องพูด: "ฟันเฉือน!" "ลูกศรทะลุ!" pitch 1.5 rate 1.2 ครั้งเดียวต่อรอบ · ไม่มี error
     **ข้อจำกัดสำคัญ**: เสียงจริงขึ้นกับเครื่อง (Edge/Windows มี Niwat ผู้ชาย · Android/iPhone ส่วนใหญ่มีแต่เสียงผู้หญิง) → ไม่ใช่เสียงเด็กชาย 15 ปีจริง · ถ้าต้องการเสียงเดียวกันทุกเครื่องต้องอัดเสียงจริง หรือใช้บริการ TTS ที่มีคีย์ แล้วฝังเป็นไฟล์
+  **ปรับตาม kwan (5 ต.ค.)**: เอาเสียงพูดออก (ไม่มี Web Speech แล้ว) · เอากล่องชื่อท่าขวาบนออก · บอลลูนชื่อท่าเก็บไว้ ทำให้อ่านง่าย: ตัวหนา 12px แดงเข้ม ขอบดำ 2px มีเงา ค้างนานขึ้น (12–35)
+    **อาวุธตามสาย**: `heldWeapon()` SL→มีด · PC→ดินสอ/ปากกา · CR→ไม้เบสบอล · BD→ถุงมือ · ST→หนังสติ๊ก · DV→ที่เย็บ (ภาพ weapons_held 5 ท่า = ช่อง POSE เดิม) ·
+      ระดับ = ตำแหน่งของท่าในสาย (ต้นสาย 1 → ท้ายสาย 5 · การจับคู่เพื่อดูภาพ ไม่ใช่กฎเกม) · ตอนวิ่งยังเป็นภาพเดินที่ไม่ถืออาวุธ
+    **เสียงสกิลใหม่ (kwan: "มุ้งมิ้งไป ขอเร้าใจกว่านี้")**: ตัดเสียงกริ๊ง/ระฆัง/อาร์เปจโจ้ทั้งหมด → ซับเบสตูม + หัวกระแทกแตกพร่า (waveshaper) + ห้องก้อง 1.6 วิ (convolver) + คอมเพรสเซอร์
+      ชาร์จ = เสียงพลังพุ่งขึ้น + โดรนเบส · SL ลมฟัน + โลหะเฉือน · PC แทงกระแทก · ST ปืน 3 นัด · CR ลมค้อนหนัก · BD ลมหมัด · DV ลำแสงไฟฟ้า (FM) · กระทบใหญ่มีครืนยาว · หาง = เศษแตกตก · หลอดไฟ = วาบแหลมสั้น
+    **เพลงต่อสู้** ปุ่ม "🎵 เพลงต่อสู้" (`BGM` ในเทมเพลต · **แต่งใหม่ ไม่ใช่เพลงของ Romancing SaGa**): D minor 152 BPM 8 ห้องวน · ลีดสแควร์คู่ + สั่น + เสียงสะท้อน · เบสซอว์ · อาร์เปจจิโอ · คิก/สแนร์/ไฮแฮต (ห้องสุดท้ายรัวสแนร์)
+    ตรวจ: เพลงตั้งเวลา 32 จังหวะ 16 ส่วนใน 3 วิ (ตรง 152 BPM) · ปิดแล้วไม่มีเสียงใหม่ · เสียงสกิลถูกเรียกครบทุกจังหวะ (หลอดไฟ ฝีเท้า ประกาศท่า ชาร์จ ปล่อย กระทบ หาง) · ไม่มี error · ยังไม่ได้ฟังด้วยหูจริง
 ## งานถัดไปตามลำดับ
 1. ✅ รัน Sim headless → เทียบตารางเป้า (`docs/SIM_REPORT_2026-09-25.md`) · ✅ เพิ่มบอส B1 เข้า Sim แล้ว · ✅ ยอมรับเป้ามีดทำครัวใหม่ (GDD 11.29)
 2. ให้ Pongsaton กด F5 เล่นแผนที่เอง (ความรู้สึกต้องมาจากมือคน ไม่ใช่ตัวเลข)
